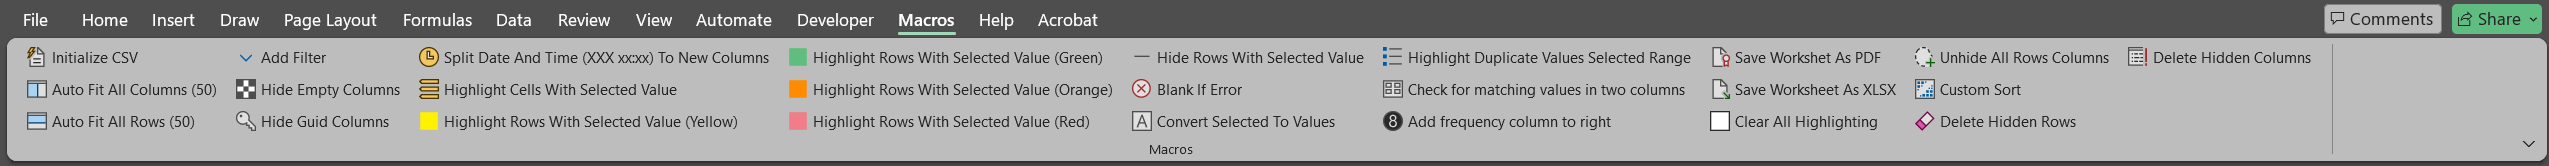
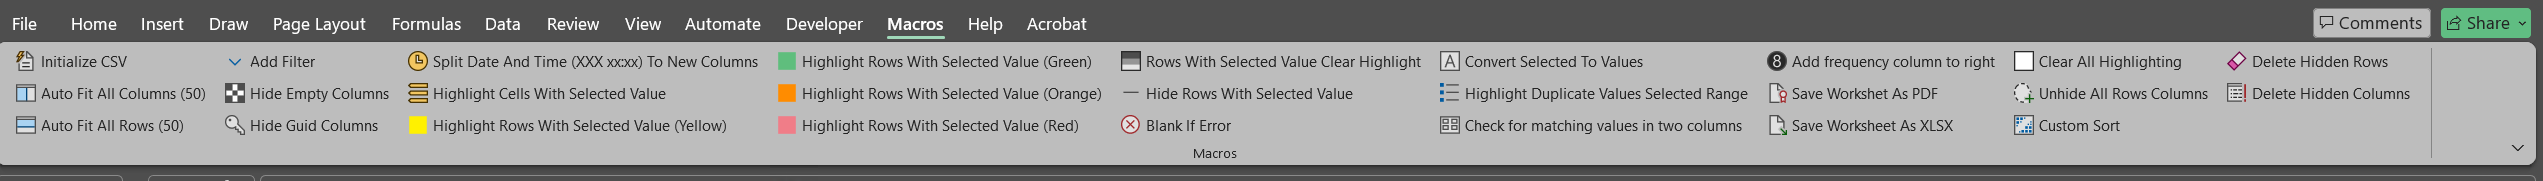
Added a clear highlighting macro

diff --git a/README.md b/README.md
@@ -10,7 +10,7 @@ https://github.com/bitpusher2k
 
 # ExcelMacros.vba - By Bitpusher/The Digital Fox
 
-## v1.7 last updated 2026-04-19
+## v1.8.0 last updated 2026-05-01
 
 ## Simple Microsoft Excel macro set. Now with LibreOffice Calc version.
 
@@ -121,7 +121,7 @@ Screenshot of customized Calc ribbon buttons:
 * HideGuidColumns - Hide all columns with a GUID in the second row (the first is assumed to be the header). Be sure to enable "Microsoft VBScript Regular Expression 5.5" under "Tools" > "References..." for this to work.
 * SplitDateAndTimeToNewColumns - If a column containing *date* *space* *time* is selected: creates two new columns to the right, copies *date* into the first, and copies *time* into the second.
 * HighlightCellsWithSelectedValue - Highlights all cells which contains the value in the currently selected cell. Can then use filter by color to limit view to highlighted entries.
-* HighlightRowsWithSelectedValue - Highlights all lines that have a cell which contains the value in the currently selected cell. Can then use filter by color to limit view to highlighted entries. Separate macros for yellow/red/orange/green highlighting included.
+* HighlightRowsWithSelectedValue - Highlights all lines that have a cell which contains the value in the currently selected cell. Can then use filter by color to limit view to highlighted entries. Separate macros for yellow/red/orange/green/cleared highlighting included.
 * HideRowsWithSelectedValue - Hides all lines that have a cell which contains the value in the currently selected cell.
 * BlankIfError - Surround formulas in all selected cells with =IFERROR(,"").
 * ConvertSelectedToValues - Converts formulas in selected cells to values.